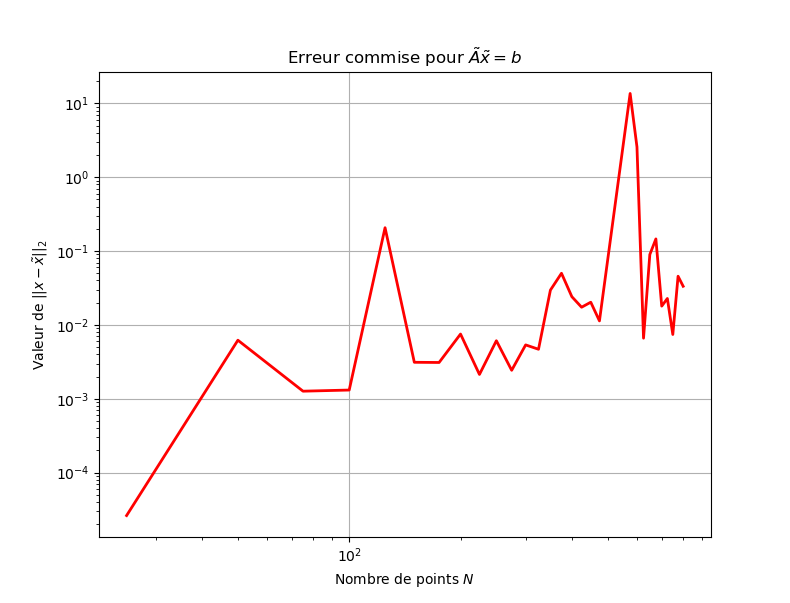
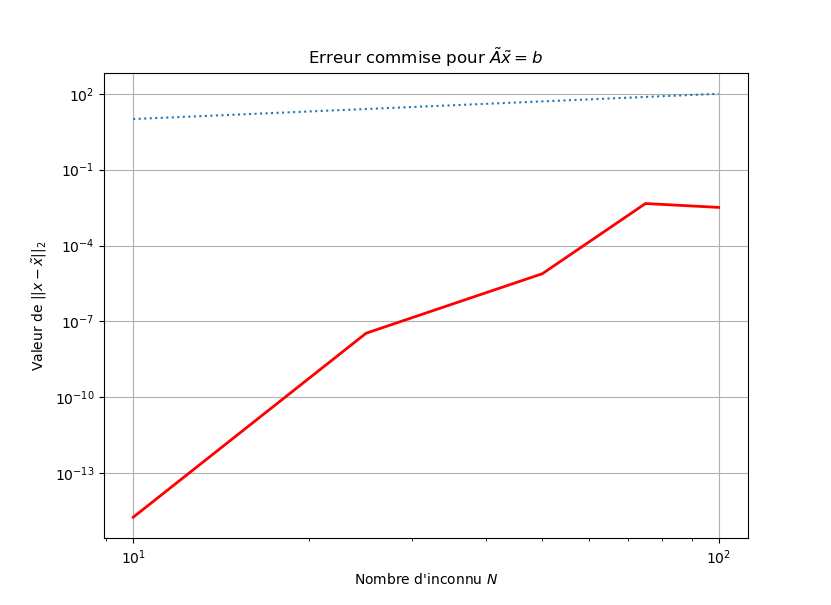
Update GMRES

diff --git a/Test/Krylov.py b/Test/Krylov.py
@@ -44,45 +44,58 @@ if __name__ == "__main__":
     N_vec = [100, 150, 200, 250, 300, 350, 400]
     #N_vec = [50 * i for i in range(1, 33)]
     #N_vec = [1000, 2000, 3000, 4000, 5000]
-    #N_vec = [50, 100, 200]
+    N_vec = [10, 25, 50, 75, 100]
     X = []
     Y_cg = []
     Y_gmres = []
     for N in N_vec:
         print(f"\nN = {N}\n")
+        ndim = 1
+        position = np.linspace(0, 1, N)
+        position = position.reshape((ndim, N))
+        tau = 1e-8
+
+        func = particles.inv_distance
+        problem, A = init_particules_problem(position, func, block_size=2, 
+                                               full_matrix=True)
+    
+        A_h2 = mcbh(problem, tau=tau, iters=1, verbose=0)  #Matrice H2
+        
         w = 1
-        A = init_mat(N)
+        #A = init_mat(N)
         #A_s = np.eye(N, N)
-        print(f"Déterminant non nul : {np.linalg.det != 0}")
-        A_s = csc_matrix(A)
+        #A_s = csc_matrix(A)
 
         b = np.ones(N)
-        
-        x1 = spsolve(A_s, b)
+        print('Calcul du x_exact...')
+        x1 = np.linalg.solve(A, b)
 
         
         #print(f"\nNorme x1 : {np.linalg.norm(x1)}")
         
-        x_cg, exitCode_cg = cg(A_s, b)
-        x_gmres, exitCode_gmres = gmres(A_s, b)
+        #x_cg, exitCode_cg = cg(A_s, b)
+        print('Calcul de x_gmres...')
+        x_gmres, exitCode_gmres = gmres(A_h2, b, tol=1e-8)
         
         #x2, exitCode = lgmres(A_s, b, atol=1e-8)
-        err_cg = np.linalg.norm(x1 - x_cg)
+        #err_cg = np.linalg.norm(x1 - x_cg)
+        print("Calcul de l'erreur")
         err_gmres = np.linalg.norm(x1 - x_gmres)
         #print(f"\nNorme x2 : {np.linalg.norm(x2)}")
-        print(f"CG :\t{exitCode_cg==0}\nGMRES :\t{exitCode_gmres==0} ")
+        #print(f"CG :\t{exitCode_cg==0}\nGMRES :\t{exitCode_gmres==0} ")
+        print(f"GMRES :\t{exitCode_gmres==0} ")
         X.append(N)
-        Y_cg.append(err_cg)
+        #Y_cg.append(err_cg)
         Y_gmres.append(err_gmres)
 
     plt.title(r"Erreur commise pour $\tilde{A} \tilde{x}= b$")
     plt.xlabel("Nombre d'inconnu $N$")
     plt.ylabel(r"Valeur de $\|\|x - \tilde{x} \|\|_2$")
-    plt.loglog(X, Y_cg, c='b', linewidth=2, label='CG')
+    #plt.loglog(X, Y_cg, c='b', linewidth=2, label='CG')
     plt.loglog(X, Y_gmres, c='r', linewidth=2, label='GMRES')
     plt.loglog(X, X, ls=':', label='Ordre 1')
     plt.grid()
-    plt.legend()
+    #plt.legend()
     plt.show()
 
     """

diff --git a/Test/functions.py b/Test/functions.py
@@ -208,7 +208,7 @@ def plot_C0_F0(A, C0, F0):
 if __name__ == '__main__':
     
     start = time.time()
-    N = 5
+    N = 8
     ndim = 1
     #position = np.random.randn(ndim, N)
     position = np.linspace(0, 1, N)
@@ -229,7 +229,9 @@ if __name__ == '__main__':
     #R = np.array(A_h2.row_transfer, dtype=object)
     R = A_h2.row_transfer
     B = A_h2.row_basis
- 
+    tree = problem.row_tree
+    print(tree)
+    """
     for r in R:
         print(r)
         print('\n')
@@ -244,7 +246,7 @@ if __name__ == '__main__':
         else:
             print(r)
         print('\n')
-
+    """
 
 
     print(f"\nTemps d'exécution : {time.time() - start}")

diff --git a/README.md b/README.md
@@ -1,3 +1,7 @@
+---
+bibliography: reference.bib
+---
+
 # Mise en place d'un solveur pour matrice $\mathcal{H} ^ 2$
 
 Codes Python réalisés lors de mon stage de master sur la mise enplace d'un solveur pour matrice $\mathcal{H}^2$.
@@ -82,16 +86,14 @@ $$\| x - \tilde{x} \|_2,~\mathrm{avec}~x\in\mathbb{R} ^ N~ : Ax=b$$
 
 ![erreur Krylov](./Images/Err_Krylov.png)
 
-Ce résultat est peu satisfaisant car pour des matrices de petites taille ($600 \times 600$), l'erreur est déjà de l'ordre de $10^{-1}$.
+Le calcul de l'erreur a été réalisé sur De très petits systèmes ($N\leq100$) car la fonction $gmres$ de *scipy* ne parvient pas à résoudre un tel problème pour des matrices trop grandes :
 
-Il est peut-être envisageable de coder un solveur itératif de Krylov nous-mêmes !
-
-[WORK IN PROGRESS]
+![GMRES_fail](./Images/GMRES_fail_2.png)
 
 
 ## Solveur direct
 
-L'article [faire ref] présente un algorithme permettant de résoudre :
+L'article [@sushnikova2018simple] [faire ref] présente un algorithme permettant de résoudre :
 
 $$ \hat{A} x = b $$
 
